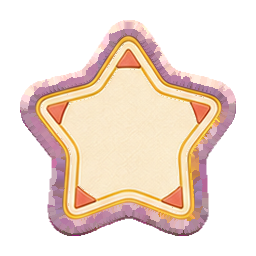
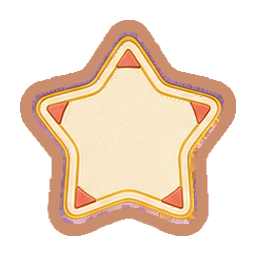
fix(grove): clean Meadow badge perimeters

Changed region(s): [[0.0625, 0.0625, 0.9375, 0.9375]]

diff --git a/games/grove/tools/extract_meadow_ui_v2.py b/games/grove/tools/extract_meadow_ui_v2.py
@@ -42,13 +42,13 @@ MEADOW_SKY_TEXTURE_COLORS: dict[str, tuple[int, int, int]] = {
     "texture_reward_gold": (0xD6, 0xA9, 0x4C),
     "texture_supporting_purple": (0x86, 0x77, 0xA3),
     "texture_ink": (0x24, 0x3B, 0x4B),
-    # Stable rounded RGB mean measured from the approved archived kraft tile.
-    "texture_warm_kraft": (221, 184, 123),
+    "texture_warm_kraft": (0xDC, 0xC3, 0x9A),
 }
 
 LIGHT_GLYPH_CONTROLS = {"button_plus", "button_info", "button_close", "button_confirm"}
 DARK_GLYPH_CONTROLS = {"button_back"}
 CLEAN_SILHOUETTE_ASSETS = LIGHT_GLYPH_CONTROLS | DARK_GLYPH_CONTROLS | {"icon_settings"}
+BADGE_PERIMETER_REPAIR = {f"level_badge_{index:02d}" for index in range(17, 21)}
 
 
 def _entries(names: Sequence[str], policy: str) -> list[dict[str, str]]:
@@ -383,6 +383,23 @@ def _canonical_badge_alpha(image: Image.Image) -> np.ndarray:
     return alpha
 
 
+def _repair_badge_perimeter(image: Image.Image, name: str) -> Image.Image:
+    """Replace generator-mottled outer bands with clean neighboring cardstock."""
+    if name not in BADGE_PERIMETER_REPAIR:
+        return image
+    rgba = np.asarray(image.convert("RGBA")).copy()
+    mask = rgba[:, :, 3] > 0
+    distance = ndimage.distance_transform_edt(mask)
+    perimeter = mask & (distance <= 12.0)
+    donor_ring = mask & (distance > 12.0) & (distance <= 18.0)
+    if not np.any(donor_ring):
+        return image
+    cardstock = np.rint(np.median(rgba[:, :, :3][donor_ring], axis=0)).astype(np.uint8)
+    rgba[perimeter, :3] = cardstock
+    rgba[~mask] = 0
+    return Image.fromarray(rgba, "RGBA")
+
+
 def _periodic_tile(image: Image.Image) -> Image.Image:
     # Build one quadrant and mirror it across both axes.  The first and last
     # rows/columns are therefore byte-identical, not merely visually similar.
@@ -465,6 +482,7 @@ def extract_sheet(
             result = _register_badge(crop)
             if canonical_badge_alpha is not None:
                 result = _apply_alpha_silhouette(result, canonical_badge_alpha)
+            result = _repair_badge_perimeter(result, entry["name"])
         elif policy == "surface":
             result = crop
         elif policy == "tile":

diff --git a/games/grove/tools/tests/test_extract_meadow_ui_v2.py b/games/grove/tools/tests/test_extract_meadow_ui_v2.py
@@ -271,6 +271,18 @@ class MeadowUiV2ExtractorTests(unittest.TestCase):
         for index, alpha in enumerate(all_badge_alpha[1:], start=2):
             np.testing.assert_array_equal(alpha, all_badge_alpha[0], err_msg=f"level_badge_{index:02d}")
 
+        for index in range(1, 26):
+            rgba = np.asarray(Image.open(output / f"level_badge_{index:02d}.png").convert("RGBA"))
+            mask = rgba[:, :, 3] > 0
+            perimeter = mask & (ndimage.distance_transform_edt(mask) <= 12)
+            rgb = rgba[:, :, :3].astype(np.float64)[perimeter]
+            luminance = rgb @ np.array([0.2126, 0.7152, 0.0722])
+            low_saturation_gray = (rgb.max(axis=1) - rgb.min(axis=1) < 30) & (luminance < 190)
+            self.assertLess(float(luminance.std()), 38.0, f"level_badge_{index:02d}")
+            self.assertLess(float(low_saturation_gray.mean()), 0.03, f"level_badge_{index:02d}")
+            self.assertLess(float((luminance < 90).mean()), 0.04, f"level_badge_{index:02d}")
+        self.assertEqual(manifest["texture_base_rgb"]["texture_warm_kraft"], [220, 195, 154])
+
     def test_failed_regeneration_preserves_last_good_output(self):
         scratch = tempfile.TemporaryDirectory()
         self.addCleanup(scratch.cleanup)

diff --git a/docs/design/asset-intake.md b/docs/design/asset-intake.md
@@ -149,7 +149,7 @@ authored depth cues rather than cast/contact shadows.
 Texture entries discard the generated key-contaminated perimeter, then mirror one clean quadrant
 horizontally and vertically. Their committed means are the exact semantic Meadow Sky role RGB values
 recorded in `manifest.json`; source luminance is reduced to a bounded 2–4% fiber-only variation. Warm
-kraft uses the stable rounded mean sampled from its approved archived source. Mirroring makes the
+kraft uses the archived prompt base `#DCC39A` exactly. Mirroring makes the
 first/last rows and columns byte-identical. The committed `ui/meadow_v2/qc/*_contact.png` files
 prove row-major identity; every `*_3x3_offset.png` exposes both texture boundaries through the middle
 of the review image and must be fully opaque, gap-free, and free of magenta before shipping.
